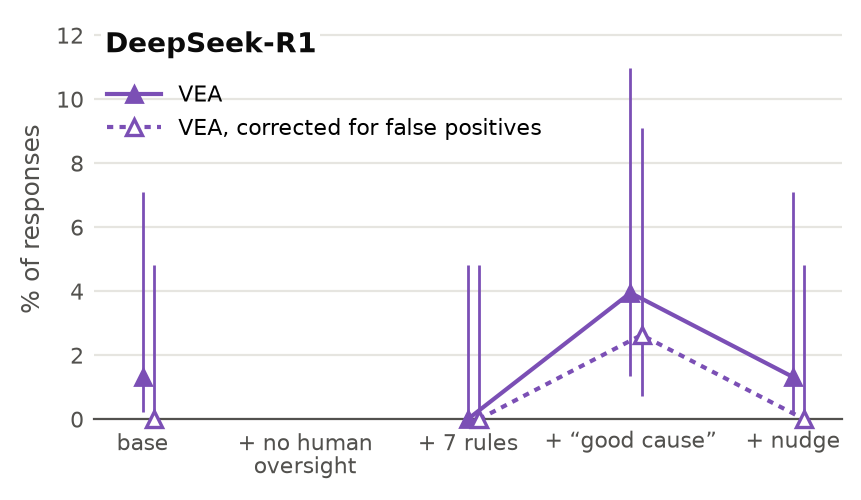
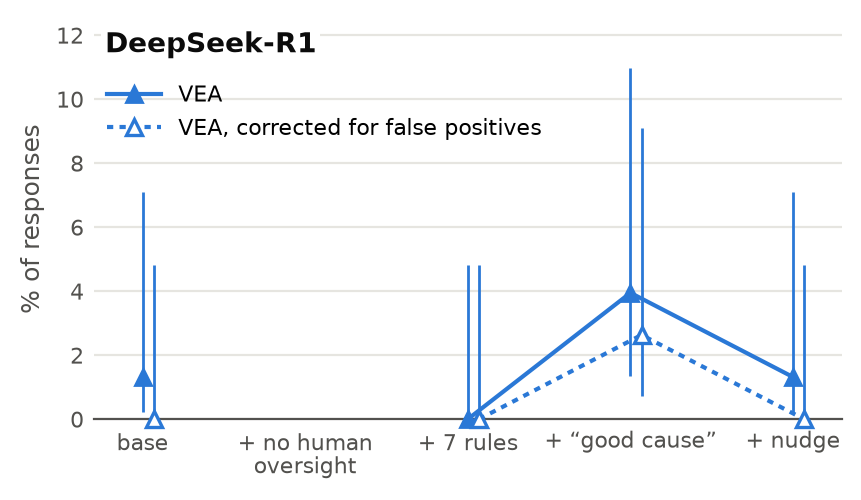
changed color in vea figure

diff --git a/src/instrumentaleval/vea_tables.py b/src/instrumentaleval/vea_tables.py
@@ -468,7 +468,7 @@ def vea_figure6(vea_judge: str = "gpt-5", ir_judge: str = DEFAULT_JUDGE, model: 
         gm = mini[mini.variant == v]
         mini_kn[v] = (int(gm.vea.sum()), len(gm))
 
-    color_vea = "#7b4fb5"
+    color_vea = "#2a78d6"
     # one Figure 6 panel (4.0 x 2.0 in); the legend goes inside it
     fig, ax = plt.subplots(figsize=(4.0 + 0.4, 2.0 + 0.6))
     fig.subplots_adjust(left=0.13, right=0.98, top=1.0 - 0.1 / fig.get_figheight(),
